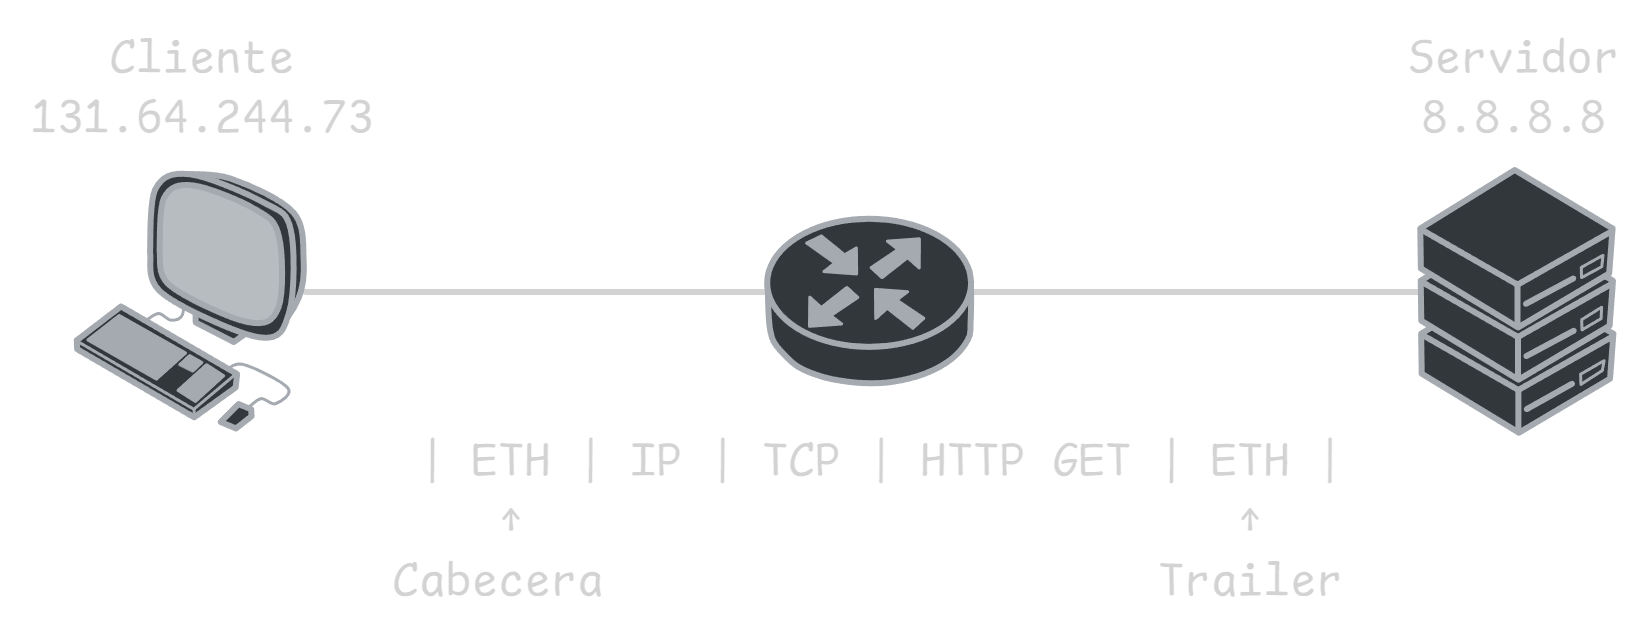
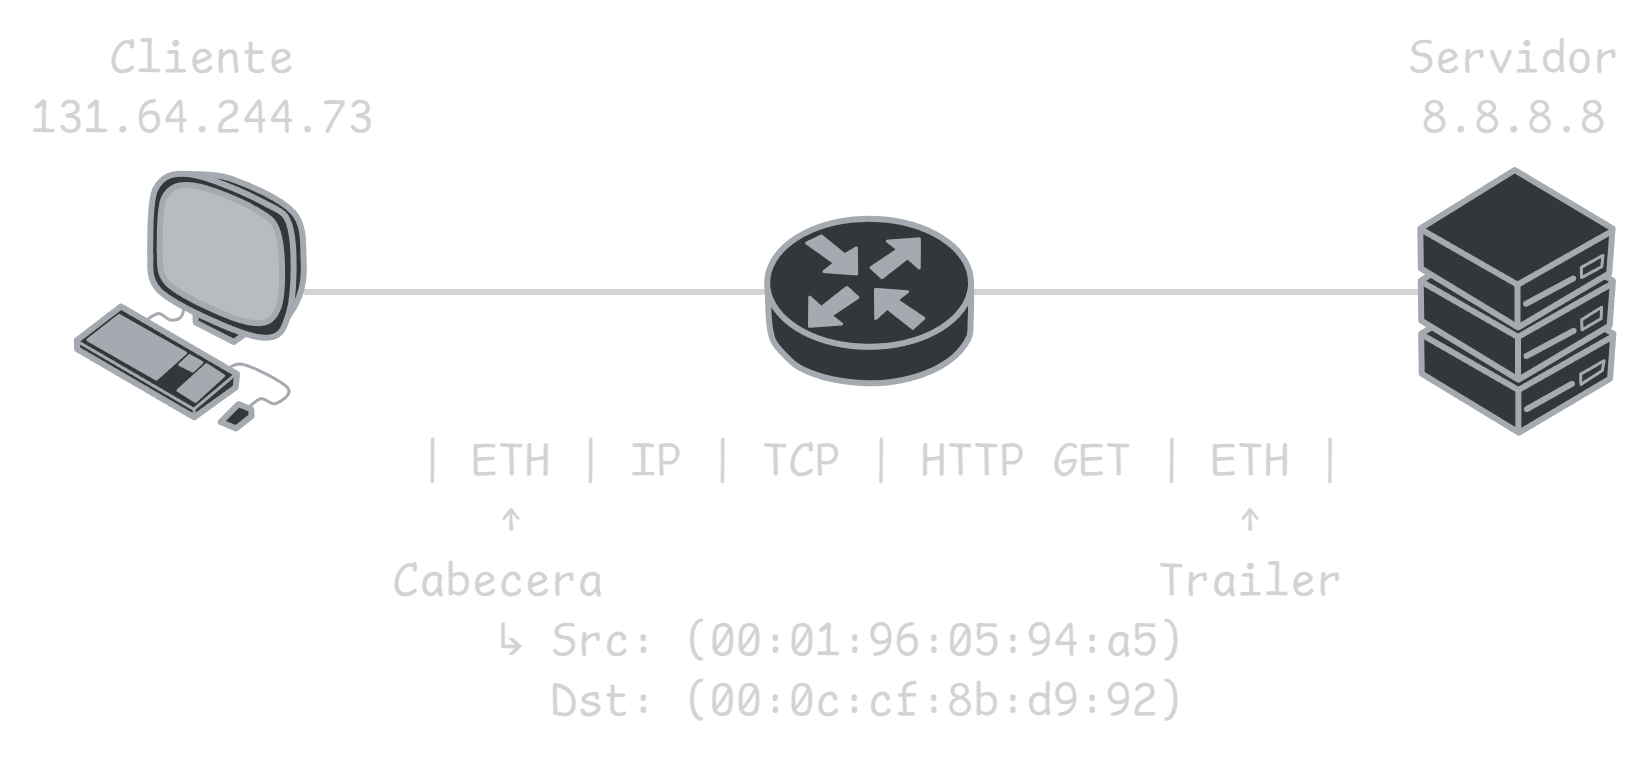
Terminar sub-capítulo 1.2 - Modelo TCP/IP

diff --git a/1-Redes-informáticas-Conceptos-básicos/1.2-Estándares-de-comunicación-TCP-IP-y-OSI.md b/1-Redes-informáticas-Conceptos-básicos/1.2-Estándares-de-comunicación-TCP-IP-y-OSI.md
@@ -60,7 +60,18 @@ El labor que cumple el router es el proceso de enrutamiento, el cual es enviar e
 
 ### Capa de Accesos a la Red
 
-**Última caba encargada de definir el procedimiento y hardware necesario para que la entrega de datos puede llevarse acabo mediante el medio físico correspondiente**. El protocolo depende del medio físico, por ejemplo en **LAN es común Ethernet**, y en **WAN es común PPP o HDCL**..
+**Última caba encargada de definir el procedimiento y hardware necesario para que la entrega de datos puede llevarse acabo mediante el medio físico correspondiente**. El protocolo depende del medio físico, por ejemplo en **LAN es común Ethernet**, y en **WAN es común PPP o HDCL**., y para identificar el host al cual enviar la información se identifica con la **MAC address**.
 
 ![Trama Ethernet básico](./Img/Trama-Ethernet-básico.png)
+
+### Procedo de Encapsulación y Envío de Datos
+
+En cada capa, se agrega una cabecera con la información necesaria, este proceso es llamado encapsulación y la información en cada capa tienen cierto nombre.
+
+| Capa         | Protocol Data Unit   |
+| ------------ | -------------------- |
+| Aplicación   | Datos / Data         |
+| Transporte   | Segmentos / Segments |
+| Internet     | Paquetes / Packets   |
+| Acceso a Red | Trama / Frames       |
 
